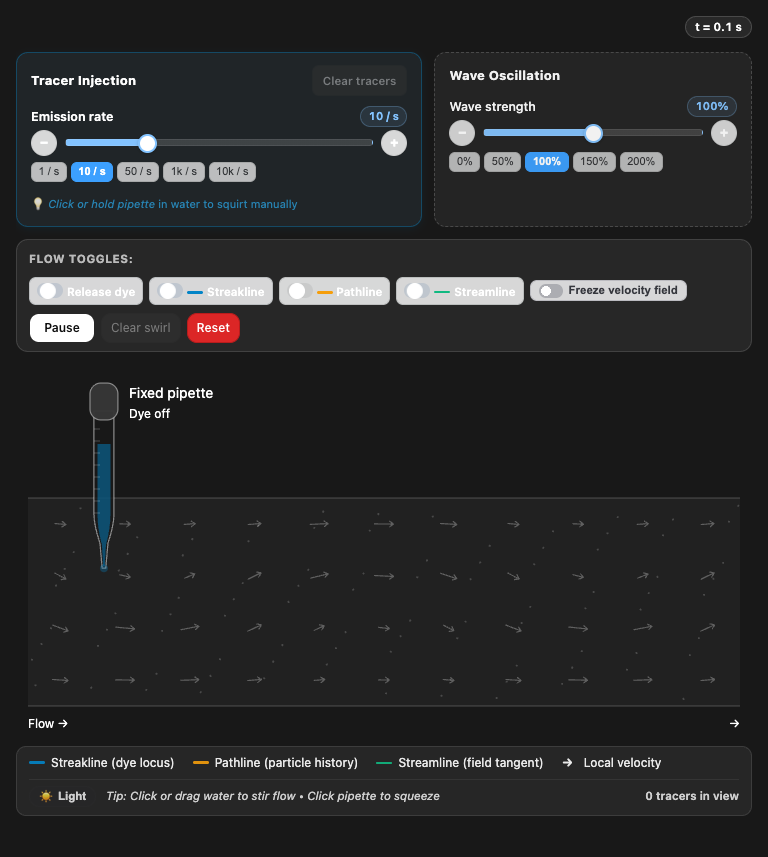
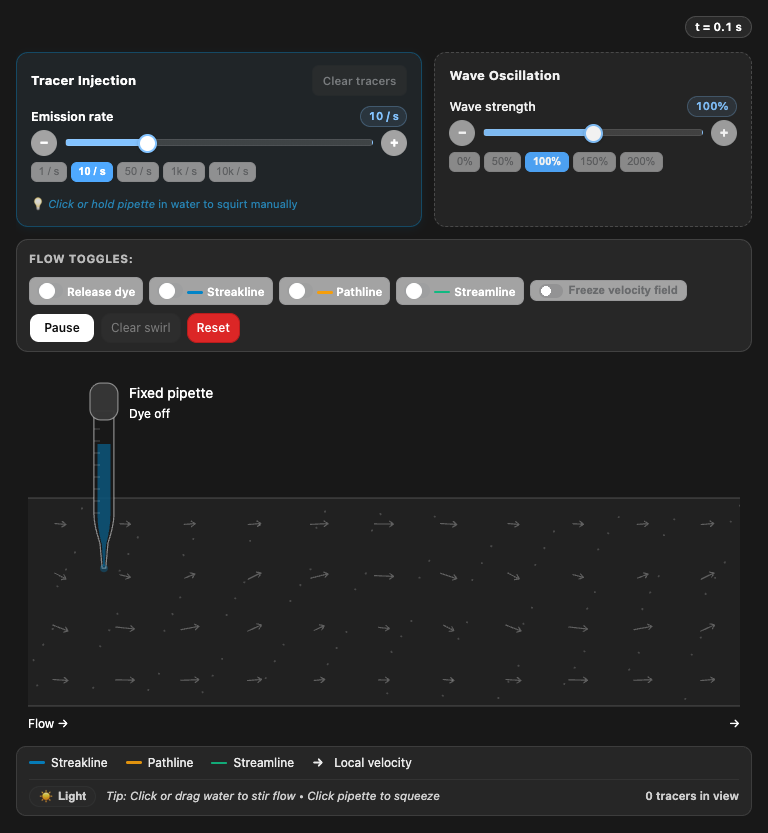
Remove explanatory parentheticals from legend labels

diff --git a/dist/index.html b/dist/index.html
@@ -1488,9 +1488,9 @@ html&gt;body{padding:0}&lt;/style&gt;
 
   &lt;div class=&quot;sl-footer text-small&quot;&gt;
     &lt;div class=&quot;sl-legend&quot;&gt;
-      &lt;span class=&quot;sl-legend-item&quot;&gt;&lt;span class=&quot;sl-swatch sl-swatch-streak&quot; aria-hidden=&quot;true&quot;&gt;&lt;/span&gt;Streakline (dye locus)&lt;/span&gt;
-      &lt;span class=&quot;sl-legend-item&quot;&gt;&lt;span class=&quot;sl-swatch sl-swatch-path&quot; aria-hidden=&quot;true&quot;&gt;&lt;/span&gt;Pathline (particle history)&lt;/span&gt;
-      &lt;span class=&quot;sl-legend-item&quot;&gt;&lt;span class=&quot;sl-swatch sl-swatch-stream&quot; aria-hidden=&quot;true&quot;&gt;&lt;/span&gt;Streamline (field tangent)&lt;/span&gt;
+      &lt;span class=&quot;sl-legend-item&quot;&gt;&lt;span class=&quot;sl-swatch sl-swatch-streak&quot; aria-hidden=&quot;true&quot;&gt;&lt;/span&gt;Streakline&lt;/span&gt;
+      &lt;span class=&quot;sl-legend-item&quot;&gt;&lt;span class=&quot;sl-swatch sl-swatch-path&quot; aria-hidden=&quot;true&quot;&gt;&lt;/span&gt;Pathline&lt;/span&gt;
+      &lt;span class=&quot;sl-legend-item&quot;&gt;&lt;span class=&quot;sl-swatch sl-swatch-stream&quot; aria-hidden=&quot;true&quot;&gt;&lt;/span&gt;Streamline&lt;/span&gt;
       &lt;span class=&quot;sl-legend-item&quot;&gt;&lt;span class=&quot;sl-velocity&quot; aria-hidden=&quot;true&quot;&gt;→&lt;/span&gt;Local velocity&lt;/span&gt;
       &lt;span id=&quot;sl-vortex-legend&quot; class=&quot;sl-legend-item&quot; style=&quot;display:none;&quot;&gt;&lt;span class=&quot;sl-vortex-dot&quot; aria-hidden=&quot;true&quot;&gt;&lt;/span&gt;Swirl vortex&lt;/span&gt;
     &lt;/div&gt;
@@ -2884,6 +2884,7 @@ html&gt;body{padding:0}&lt;/style&gt;
   layout(); requestAnimationFrame(animate);
 })();
 &lt;/script&gt;
+
 
 
 

diff --git a/index.html b/index.html
@@ -1488,9 +1488,9 @@ html&gt;body{padding:0}&lt;/style&gt;
 
   &lt;div class=&quot;sl-footer text-small&quot;&gt;
     &lt;div class=&quot;sl-legend&quot;&gt;
-      &lt;span class=&quot;sl-legend-item&quot;&gt;&lt;span class=&quot;sl-swatch sl-swatch-streak&quot; aria-hidden=&quot;true&quot;&gt;&lt;/span&gt;Streakline (dye locus)&lt;/span&gt;
-      &lt;span class=&quot;sl-legend-item&quot;&gt;&lt;span class=&quot;sl-swatch sl-swatch-path&quot; aria-hidden=&quot;true&quot;&gt;&lt;/span&gt;Pathline (particle history)&lt;/span&gt;
-      &lt;span class=&quot;sl-legend-item&quot;&gt;&lt;span class=&quot;sl-swatch sl-swatch-stream&quot; aria-hidden=&quot;true&quot;&gt;&lt;/span&gt;Streamline (field tangent)&lt;/span&gt;
+      &lt;span class=&quot;sl-legend-item&quot;&gt;&lt;span class=&quot;sl-swatch sl-swatch-streak&quot; aria-hidden=&quot;true&quot;&gt;&lt;/span&gt;Streakline&lt;/span&gt;
+      &lt;span class=&quot;sl-legend-item&quot;&gt;&lt;span class=&quot;sl-swatch sl-swatch-path&quot; aria-hidden=&quot;true&quot;&gt;&lt;/span&gt;Pathline&lt;/span&gt;
+      &lt;span class=&quot;sl-legend-item&quot;&gt;&lt;span class=&quot;sl-swatch sl-swatch-stream&quot; aria-hidden=&quot;true&quot;&gt;&lt;/span&gt;Streamline&lt;/span&gt;
       &lt;span class=&quot;sl-legend-item&quot;&gt;&lt;span class=&quot;sl-velocity&quot; aria-hidden=&quot;true&quot;&gt;→&lt;/span&gt;Local velocity&lt;/span&gt;
       &lt;span id=&quot;sl-vortex-legend&quot; class=&quot;sl-legend-item&quot; style=&quot;display:none;&quot;&gt;&lt;span class=&quot;sl-vortex-dot&quot; aria-hidden=&quot;true&quot;&gt;&lt;/span&gt;Swirl vortex&lt;/span&gt;
     &lt;/div&gt;
@@ -2884,6 +2884,7 @@ html&gt;body{padding:0}&lt;/style&gt;
   layout(); requestAnimationFrame(animate);
 })();
 &lt;/script&gt;
+
 
 
 

diff --git a/outputs/streakline-demo.html b/outputs/streakline-demo.html
@@ -1488,9 +1488,9 @@ html&gt;body{padding:0}&lt;/style&gt;
 
   &lt;div class=&quot;sl-footer text-small&quot;&gt;
     &lt;div class=&quot;sl-legend&quot;&gt;
-      &lt;span class=&quot;sl-legend-item&quot;&gt;&lt;span class=&quot;sl-swatch sl-swatch-streak&quot; aria-hidden=&quot;true&quot;&gt;&lt;/span&gt;Streakline (dye locus)&lt;/span&gt;
-      &lt;span class=&quot;sl-legend-item&quot;&gt;&lt;span class=&quot;sl-swatch sl-swatch-path&quot; aria-hidden=&quot;true&quot;&gt;&lt;/span&gt;Pathline (particle history)&lt;/span&gt;
-      &lt;span class=&quot;sl-legend-item&quot;&gt;&lt;span class=&quot;sl-swatch sl-swatch-stream&quot; aria-hidden=&quot;true&quot;&gt;&lt;/span&gt;Streamline (field tangent)&lt;/span&gt;
+      &lt;span class=&quot;sl-legend-item&quot;&gt;&lt;span class=&quot;sl-swatch sl-swatch-streak&quot; aria-hidden=&quot;true&quot;&gt;&lt;/span&gt;Streakline&lt;/span&gt;
+      &lt;span class=&quot;sl-legend-item&quot;&gt;&lt;span class=&quot;sl-swatch sl-swatch-path&quot; aria-hidden=&quot;true&quot;&gt;&lt;/span&gt;Pathline&lt;/span&gt;
+      &lt;span class=&quot;sl-legend-item&quot;&gt;&lt;span class=&quot;sl-swatch sl-swatch-stream&quot; aria-hidden=&quot;true&quot;&gt;&lt;/span&gt;Streamline&lt;/span&gt;
       &lt;span class=&quot;sl-legend-item&quot;&gt;&lt;span class=&quot;sl-velocity&quot; aria-hidden=&quot;true&quot;&gt;→&lt;/span&gt;Local velocity&lt;/span&gt;
       &lt;span id=&quot;sl-vortex-legend&quot; class=&quot;sl-legend-item&quot; style=&quot;display:none;&quot;&gt;&lt;span class=&quot;sl-vortex-dot&quot; aria-hidden=&quot;true&quot;&gt;&lt;/span&gt;Swirl vortex&lt;/span&gt;
     &lt;/div&gt;
@@ -2884,6 +2884,7 @@ html&gt;body{padding:0}&lt;/style&gt;
   layout(); requestAnimationFrame(animate);
 })();
 &lt;/script&gt;
+
 
 
 

diff --git a/work/streakline-preview.html b/work/streakline-preview.html
@@ -1488,9 +1488,9 @@ html&gt;body{padding:0}&lt;/style&gt;
 
   &lt;div class=&quot;sl-footer text-small&quot;&gt;
     &lt;div class=&quot;sl-legend&quot;&gt;
-      &lt;span class=&quot;sl-legend-item&quot;&gt;&lt;span class=&quot;sl-swatch sl-swatch-streak&quot; aria-hidden=&quot;true&quot;&gt;&lt;/span&gt;Streakline (dye locus)&lt;/span&gt;
-      &lt;span class=&quot;sl-legend-item&quot;&gt;&lt;span class=&quot;sl-swatch sl-swatch-path&quot; aria-hidden=&quot;true&quot;&gt;&lt;/span&gt;Pathline (particle history)&lt;/span&gt;
-      &lt;span class=&quot;sl-legend-item&quot;&gt;&lt;span class=&quot;sl-swatch sl-swatch-stream&quot; aria-hidden=&quot;true&quot;&gt;&lt;/span&gt;Streamline (field tangent)&lt;/span&gt;
+      &lt;span class=&quot;sl-legend-item&quot;&gt;&lt;span class=&quot;sl-swatch sl-swatch-streak&quot; aria-hidden=&quot;true&quot;&gt;&lt;/span&gt;Streakline&lt;/span&gt;
+      &lt;span class=&quot;sl-legend-item&quot;&gt;&lt;span class=&quot;sl-swatch sl-swatch-path&quot; aria-hidden=&quot;true&quot;&gt;&lt;/span&gt;Pathline&lt;/span&gt;
+      &lt;span class=&quot;sl-legend-item&quot;&gt;&lt;span class=&quot;sl-swatch sl-swatch-stream&quot; aria-hidden=&quot;true&quot;&gt;&lt;/span&gt;Streamline&lt;/span&gt;
       &lt;span class=&quot;sl-legend-item&quot;&gt;&lt;span class=&quot;sl-velocity&quot; aria-hidden=&quot;true&quot;&gt;→&lt;/span&gt;Local velocity&lt;/span&gt;
       &lt;span id=&quot;sl-vortex-legend&quot; class=&quot;sl-legend-item&quot; style=&quot;display:none;&quot;&gt;&lt;span class=&quot;sl-vortex-dot&quot; aria-hidden=&quot;true&quot;&gt;&lt;/span&gt;Swirl vortex&lt;/span&gt;
     &lt;/div&gt;
@@ -2884,6 +2884,7 @@ html&gt;body{padding:0}&lt;/style&gt;
   layout(); requestAnimationFrame(animate);
 })();
 &lt;/script&gt;
+
 
 
 
